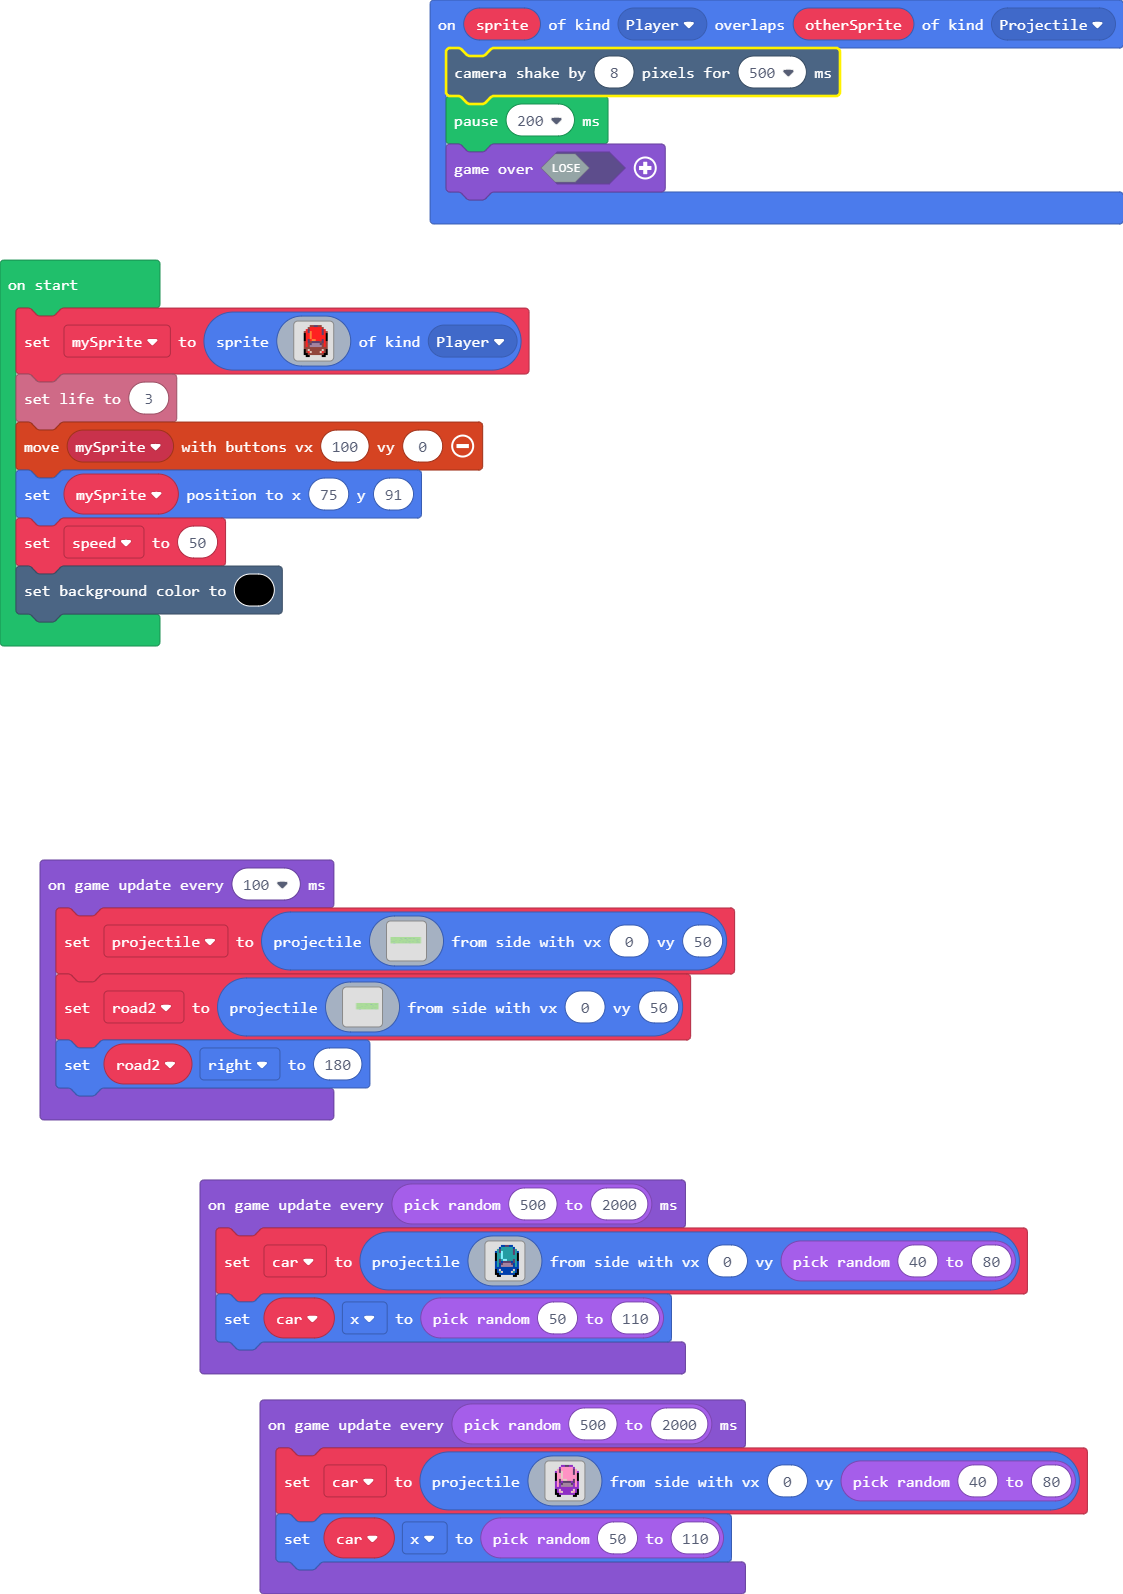
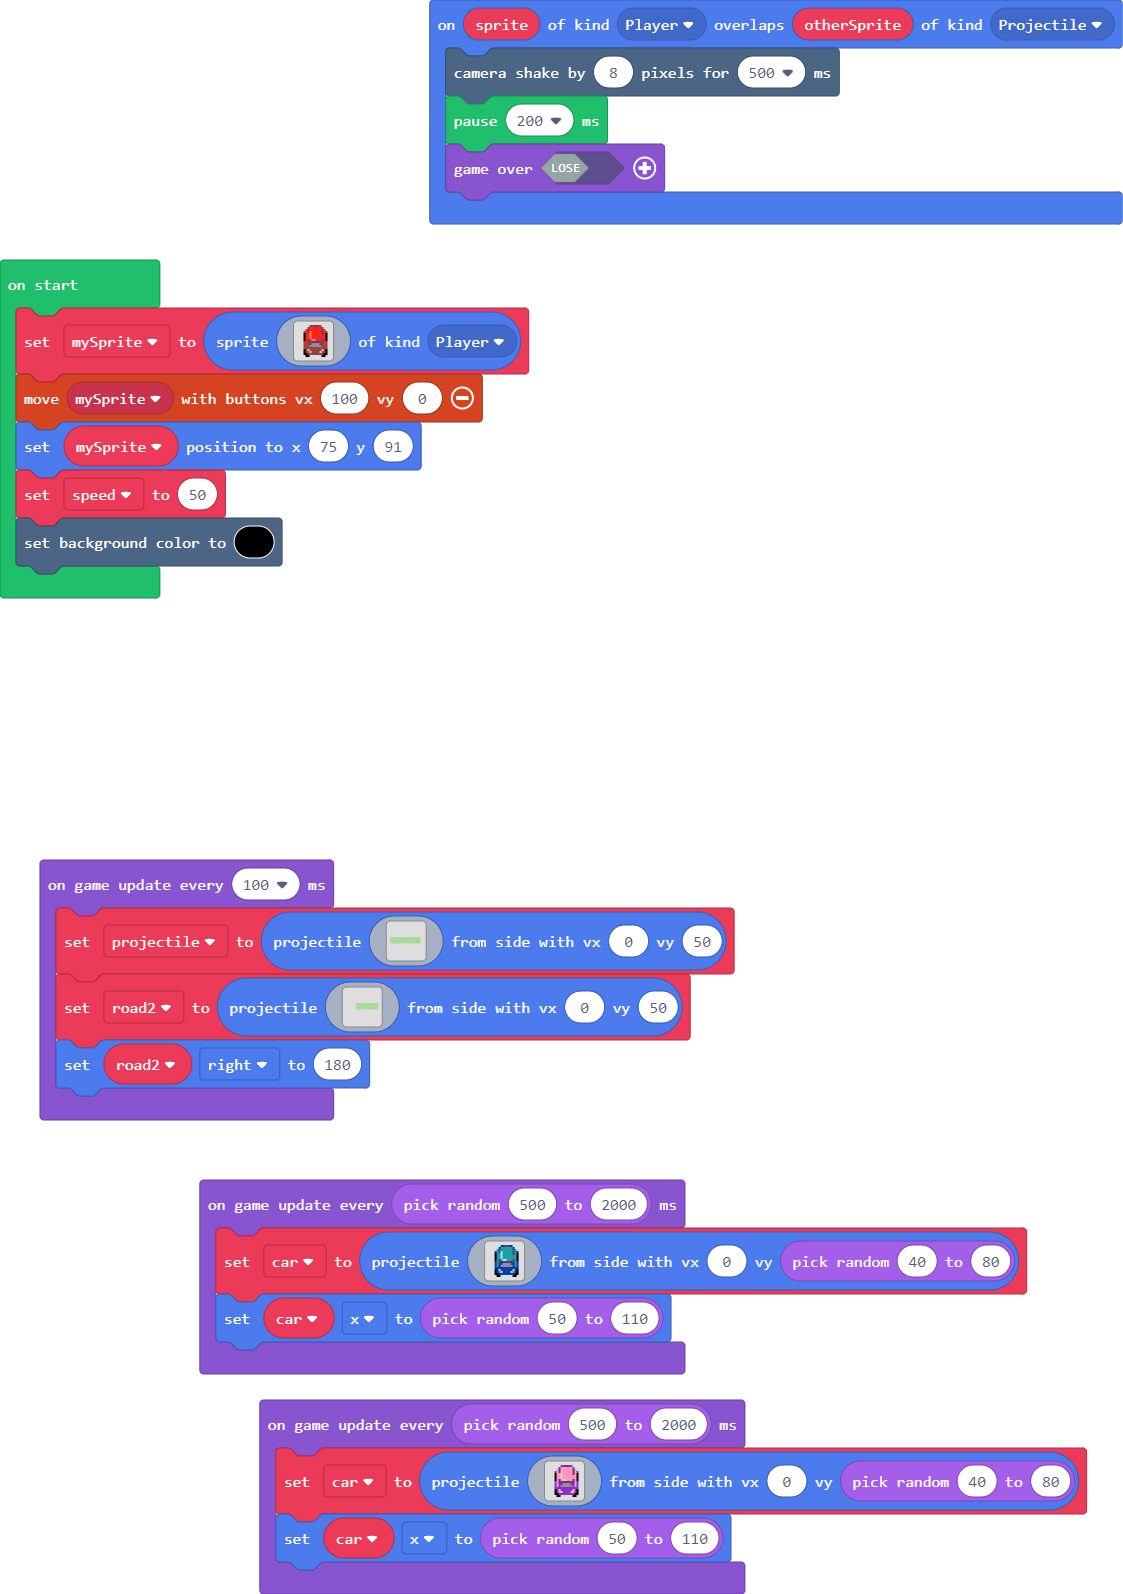
Update main.blocks, main.ts

diff --git a/main.ts b/main.ts
@@ -27,7 +27,6 @@ let mySprite = sprites.create(img`
 . . . f f e e e e e e e e f f . 
 . . . . f f . . . . . . f f . . 
 `, SpriteKind.Player)
-info.setLife(3)
 controller.moveSprite(mySprite, 100, 0)
 mySprite.setPosition(75, 91)
 let speed = 50
